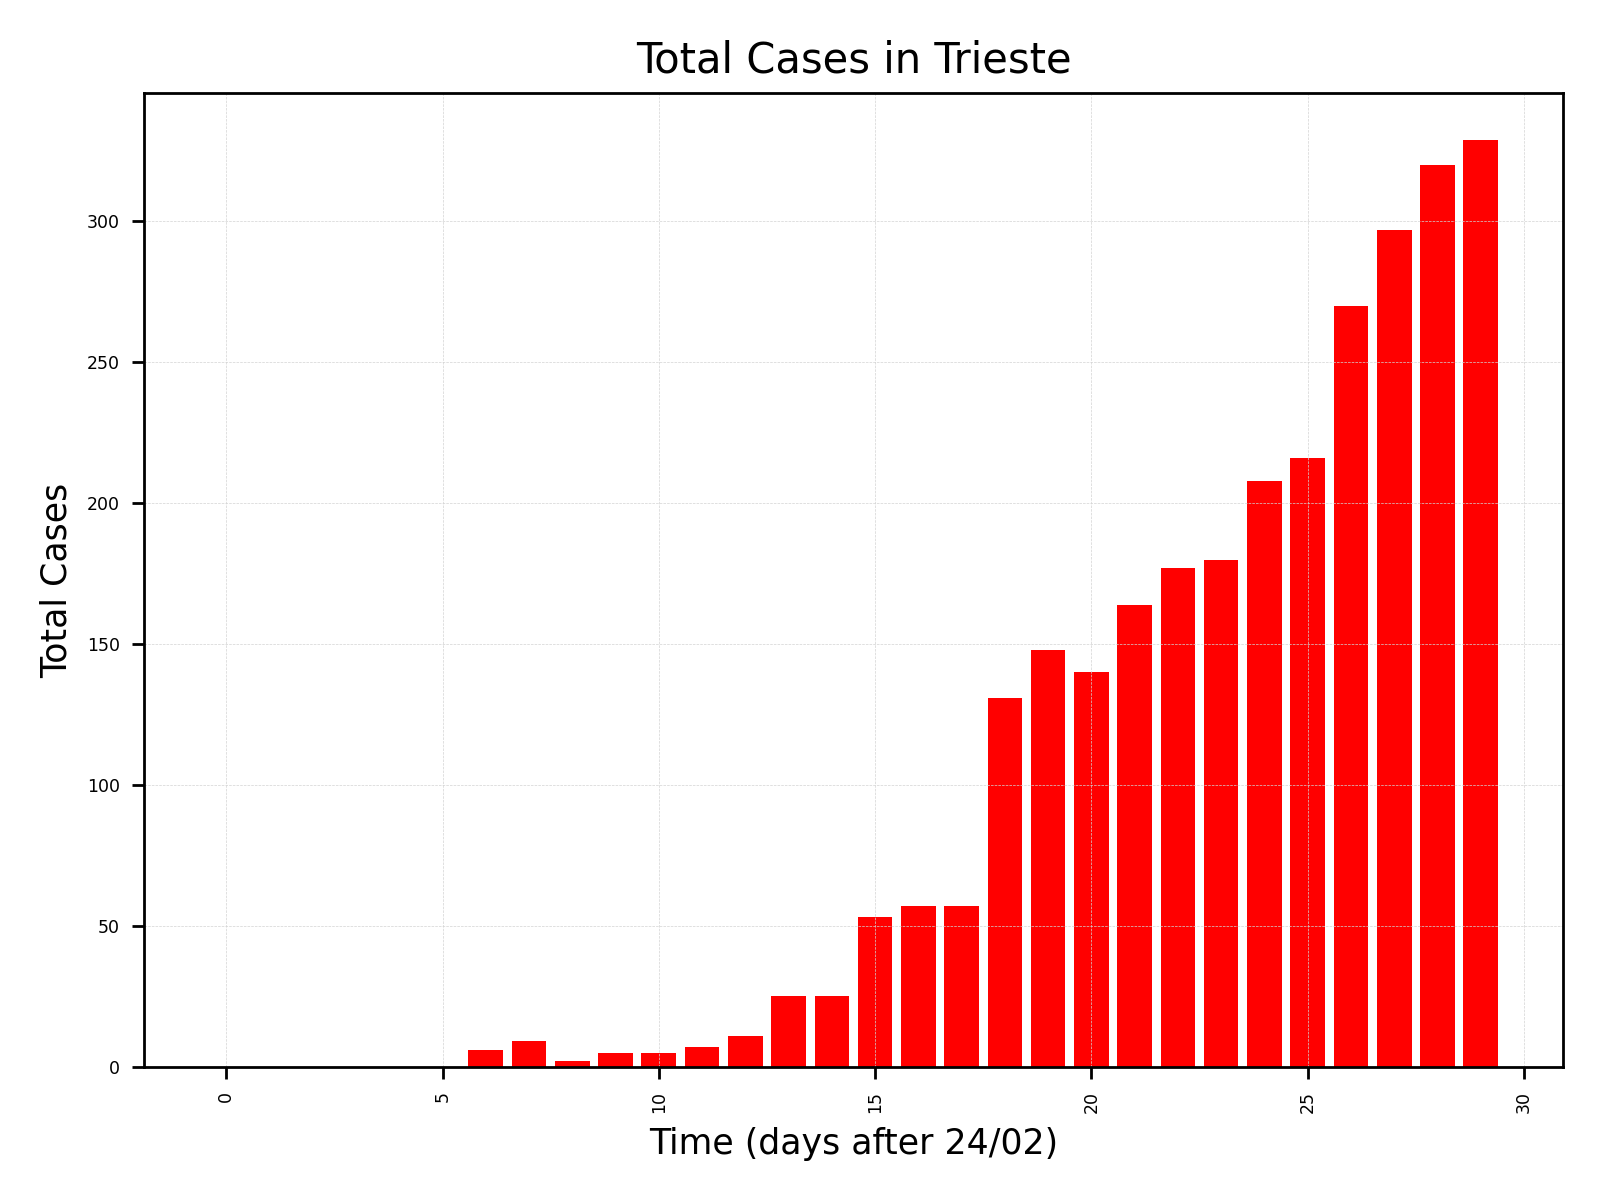
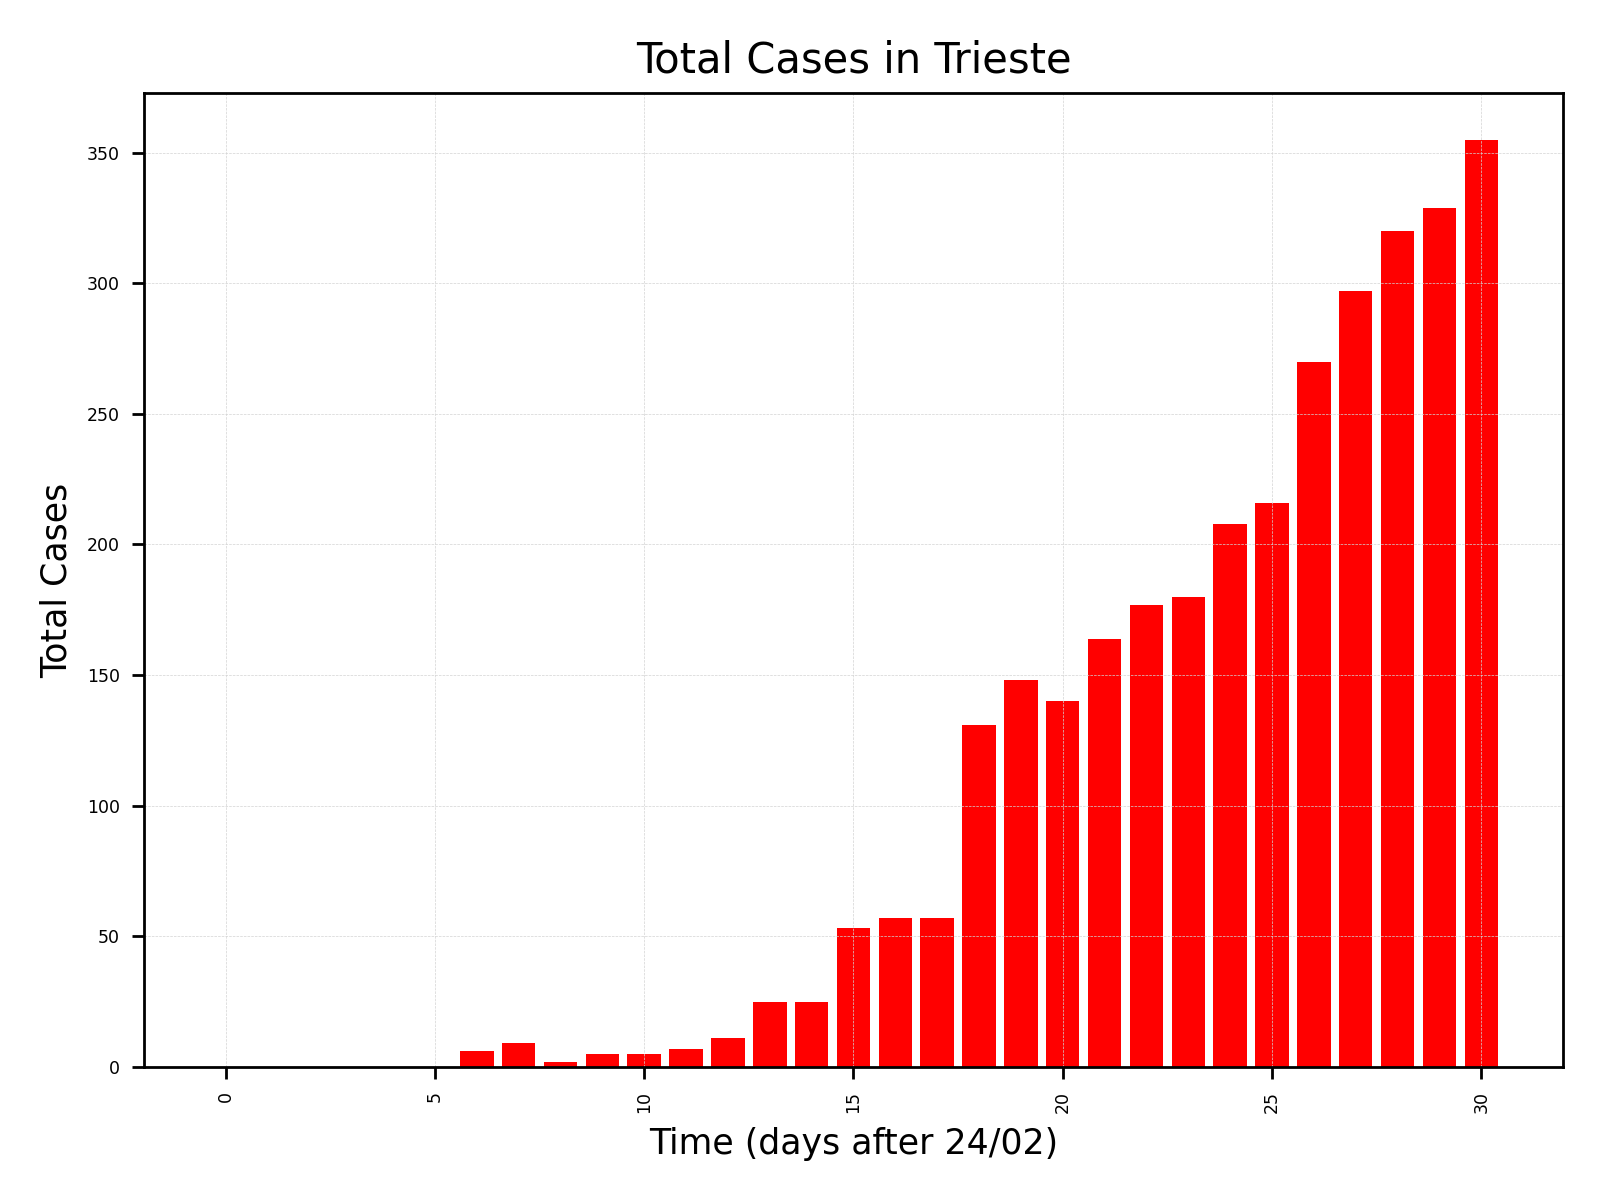
update to 25th of march

diff --git a/regional.py b/regional.py
@@ -46,7 +46,7 @@ print(dataset.iloc[lambda x: x.index > 524][
 # monitoring hospitals in fvg
 print('\n MONITORING SITUATION IN FVG HOSPITALS')
 
-last_date = '2020-03-24 17:00:00'
+last_date = '2020-03-25 17:00:00'
 last_tot_cases = dataset.loc[dataset['data']==last_date][['denominazione_regione','totale_casi','totale_attualmente_positivi', 'totale_ospedalizzati', 'terapia_intensiva']]
 
 print('\nTotale casi in fvg')

diff --git a/trieste.py b/trieste.py
@@ -41,7 +41,7 @@ dataset.info()
 # monitoring Trieste
 print('\n MONITORING SITUATION IN TRIESTE')
 
-last_date = '2020-03-24 17:00:00'
+last_date = '2020-03-25 17:00:00'
 last_tot_cases = dataset.loc[dataset['data']==last_date][['denominazione_provincia','totale_casi']]
 
 casi_trieste = last_tot_cases.loc[last_tot_cases['denominazione_provincia']=='Trieste']['totale_casi']
